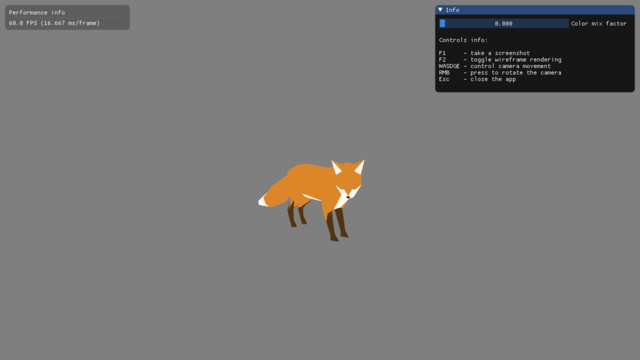
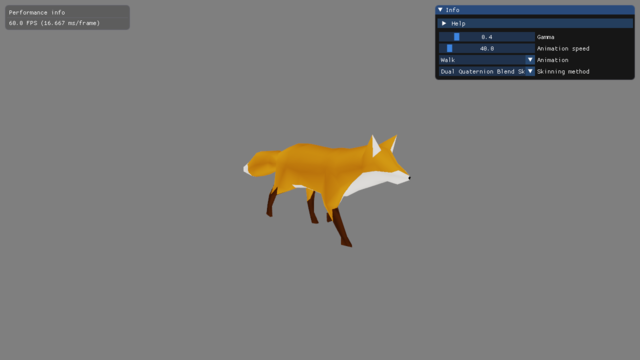
Finished Mesh Skinning Demo

Changed region(s): [[0.375, 0.3667, 0.6562, 0.7028], [0.6562, 0.0611, 1.0, 0.275], [0.875, 0.0306, 1.0, 0.0917]]

diff --git a/src/demos/20_mesh_skinning/mesh_skinning.cpp b/src/demos/20_mesh_skinning/mesh_skinning.cpp
@@ -7,7 +7,8 @@
 #include <timer.h>
 
 MeshSkinning::MeshSkinning()
-    : m_current_animation_index(0),
+    : m_skinning_method        (SkinningMethod::LBS),
+      m_current_animation_index(0),
       m_animation_speed        (40.0f),
       m_gamma                  (0.4f)
 {
@@ -28,7 +29,7 @@ void MeshSkinning::init_app()
 
     /* Create virtual camera. */
     m_camera = std::make_shared<RGL::Camera>(60.0, RGL::Window::getAspectRatio(), 0.01, 100.0);
-    m_camera->setPosition(-2.0, 1.0, 2.0);
+    m_camera->setPosition(-1.0, 0.5, 1.0);
     m_camera->setOrientation(10.0, 45.0, 0.0);
 
     /* Create models. */
@@ -38,12 +39,18 @@ void MeshSkinning::init_app()
 
     /* Set model matrices for each model. */
     auto scale_factor = m_animated_model.GetUnitScaleFactor();
-    m_object_model_matrix = glm::translate(glm::mat4(1.0), glm::vec3(0.0, 0.0, 0.0)) * glm::rotate(glm::mat4(1.0), glm::radians(0.0f), glm::vec3(1, 0, 0)) * glm::scale(glm::mat4(1.0f), glm::vec3(scale_factor));
+    m_object_model_matrix = glm::scale(glm::mat4(1.0f), glm::vec3(scale_factor));
 
     /* Create shader. */
     std::string dir = "../src/demos/20_mesh_skinning/";
-    m_simple_skinning_shader = std::make_shared<RGL::Shader>(dir + "skinning.vert", dir + "skinning.frag");
-    m_simple_skinning_shader->link();
+
+    /* Linear Blend Skinning shader. */
+    m_lbs_skinning_shader = std::make_shared<RGL::Shader>(dir + "skinning_lbs.vert", dir + "skinning.frag");
+    m_lbs_skinning_shader->link();
+
+    /* Dual Quaternion Blend Skinning shader. */
+    m_dqs_skinning_shader = std::make_shared<RGL::Shader>(dir + "skinning_dqs.vert", dir + "skinning.frag");
+    m_dqs_skinning_shader->link();
 }
 
 void MeshSkinning::input()
@@ -93,8 +100,17 @@ void MeshSkinning::update(double delta_time)
     /* Update variables here. */
     m_camera->update(delta_time);
 
-    m_bone_transforms.clear();
-    m_animated_model.BoneTransform(delta_time, m_bone_transforms);
+    switch(m_skinning_method)
+    {
+        case SkinningMethod::LBS:
+            m_bone_transforms.clear();
+            m_animated_model.BoneTransform(delta_time, m_bone_transforms);
+            break;
+        case SkinningMethod::DQS:
+            m_bone_transforms_dq.clear();
+            m_animated_model.BoneTransform(delta_time, m_bone_transforms_dq);
+            break;
+    }
 }
 
 void MeshSkinning::render()
@@ -102,14 +118,26 @@ void MeshSkinning::render()
     /* Put render specific code here. Don't update variables here! */
     glClear(GL_COLOR_BUFFER_BIT | GL_DEPTH_BUFFER_BIT);
 
-    m_simple_skinning_shader->bind();
-
     auto view_projection = m_camera->m_projection * m_camera->m_view;
-    
-    m_simple_skinning_shader->setUniform("mvp",   view_projection * m_object_model_matrix);
-    m_simple_skinning_shader->setUniform("model", m_object_model_matrix);
-    m_simple_skinning_shader->setUniform("bones", m_bone_transforms.data(), m_bone_transforms.size());
-    m_simple_skinning_shader->setUniform("gamma", m_gamma);
+
+    if (m_skinning_method == SkinningMethod::LBS)
+    {
+        m_lbs_skinning_shader->bind();
+        m_lbs_skinning_shader->setUniform("mvp",   view_projection * m_object_model_matrix);
+        m_lbs_skinning_shader->setUniform("model", m_object_model_matrix);
+        m_lbs_skinning_shader->setUniform("bones", m_bone_transforms.data(), m_bone_transforms.size());
+        m_lbs_skinning_shader->setUniform("gamma", m_gamma);
+    }
+
+    if (m_skinning_method == SkinningMethod::DQS)
+    {
+        m_dqs_skinning_shader->bind();
+        m_dqs_skinning_shader->setUniform("mvp",   view_projection * m_object_model_matrix);
+        m_dqs_skinning_shader->setUniform("model", m_object_model_matrix);
+        m_dqs_skinning_shader->setUniform("bones", m_bone_transforms_dq.data(), m_bone_transforms_dq.size());
+        m_dqs_skinning_shader->setUniform("gamma", m_gamma);
+    }
+
     m_animated_model.Render();
 }
 
@@ -160,6 +188,24 @@ void MeshSkinning::render_gui()
                 {
                     m_current_animation_index = i;
                     m_animated_model.SetAnimation(i);
+                }
+
+                if (is_selected)
+                {
+                    ImGui::SetItemDefaultFocus();
+                }
+            }
+            ImGui::EndCombo();
+        }
+
+        if (ImGui::BeginCombo("Skinning method", m_skinning_methods_names[int(m_skinning_method)].c_str()))
+        {
+            for (int i = 0; i < std::size(m_skinning_methods_names); ++i)
+            {
+                bool is_selected = (int(m_skinning_method) == i);
+                if (ImGui::Selectable(m_skinning_methods_names[i].c_str(), is_selected))
+                {
+                    m_skinning_method = SkinningMethod(i);
                 }
 
                 if (is_selected)

diff --git a/src/core/animated_model.cpp b/src/core/animated_model.cpp
@@ -3,6 +3,7 @@
 #include <glm/gtc/matrix_transform.hpp>
 #include <assimp/postprocess.h>
 #include <glm/gtx/quaternion.hpp>
+#include <glm/gtx/dual_quaternion.hpp>
 
 namespace RGL
 {
@@ -24,6 +25,34 @@ namespace RGL
             for (uint32_t i = 0; i < m_bones_count; ++i)
             {
                 transforms[i] = m_bone_infos[i].m_final_transform;
+            }
+        }
+    }
+
+    void AnimatedModel::BoneTransform(float dt, std::vector<glm::mat2x4>& transforms)
+    {
+        if (m_assimp_scene->mNumAnimations > 0)
+        {
+            /* Calc animation duration */
+            float ticks_per_second = (float)(m_assimp_scene->mAnimations[m_current_animation]->mTicksPerSecond != 0 ? m_assimp_scene->mAnimations[m_current_animation]->mTicksPerSecond : 25.0f);
+            float animation_duration = (float)m_assimp_scene->mAnimations[m_current_animation]->mDuration;
+
+            m_current_animation_time += ticks_per_second * dt * m_animation_speed;
+            m_current_animation_time = fmod(m_current_animation_time, animation_duration);
+
+            ReadNodeHierarchy(m_current_animation_time, m_assimp_scene->mRootNode, glm::mat4(1.0f));
+
+            transforms.resize(m_bones_count);
+
+            for (uint32_t i = 0; i < m_bones_count; ++i)
+            {
+                 glm::quat rotation(m_bone_infos[i].m_final_transform);
+                 glm::fdualquat dq (rotation, m_bone_infos[i].m_final_transform[3]);
+
+                 glm::mat2x4 dq_mat(glm::vec4(dq.real.w, dq.real.x, dq.real.y, dq.real.z), 
+                                    glm::vec4(dq.dual.w, dq.dual.x, dq.dual.y, dq.dual.z));
+
+                 transforms[i] = dq_mat;
             }
         }
     }

diff --git a/src/demos/20_mesh_skinning/mesh_skinning.h b/src/demos/20_mesh_skinning/mesh_skinning.h
@@ -18,17 +18,23 @@ public:
     void input()                   override;
     void update(double delta_time) override;
     void render()                  override;
-    void render_gui()               override;
+    void render_gui()              override;
 
 private:
+    enum class SkinningMethod { LBS, DQS };
+    const std::string m_skinning_methods_names[2] = { "Linear Blend Skinning", "Dual Quaternion Blend Skinning" };
+
     std::shared_ptr<RGL::Camera> m_camera;
-    std::shared_ptr<RGL::Shader> m_simple_skinning_shader;
+    std::shared_ptr<RGL::Shader> m_lbs_skinning_shader, m_dqs_skinning_shader;
 
     RGL::AnimatedModel m_animated_model;
     std::vector<std::string> m_animations_names;
-    std::vector<glm::mat4> m_bone_transforms;
     glm::mat4 m_object_model_matrix;;
 
+    std::vector<glm::mat4> m_bone_transforms;
+    std::vector<glm::mat2x4> m_bone_transforms_dq;
+
+    SkinningMethod m_skinning_method;
     uint32_t m_current_animation_index;
     float m_animation_speed;
     float m_gamma;

diff --git a/src/core/animated_model.h b/src/core/animated_model.h
@@ -2,6 +2,7 @@
 
 #include "static_model.h"
 
+#include <glm/mat2x4.hpp>
 #include <glm/mat4x4.hpp>
 #include <map>
 
@@ -20,8 +21,13 @@ namespace RGL
 
         virtual ~AnimatedModel() {}
 
-        void BoneTransform(float dt, std::vector<glm::mat4> & transforms);
-        bool Load         (const std::filesystem::path& filepath, bool srgb_textures = true) override;
+        /* Used for Linear Blend Skinning */
+        void BoneTransform(float dt, std::vector<glm::mat4>& transforms);
+
+        /* Used for Dual Quaternion Blend Skinning */
+        void BoneTransform(float dt, std::vector<glm::mat2x4>& transforms);
+
+        bool Load(const std::filesystem::path& filepath, bool srgb_textures = true) override;
 
         std::vector<std::string> GetAnimationsNames() const;
         uint32_t                 GetAnimationsCount() const { return m_animations_count; }

diff --git a/src/core/shader.cpp b/src/core/shader.cpp
@@ -375,6 +375,21 @@ namespace RGL
         }
     }
 
+    void Shader::setUniform(const std::string& uniformName, glm::mat2x4* matrices, unsigned count)
+    {
+        if (m_uniforms_locations.count(uniformName))
+        {
+            glProgramUniformMatrix2x4fv(m_program_id, m_uniforms_locations[uniformName], count, GL_FALSE, &matrices[0][0][0]);
+        }
+        else
+        {
+            if (getUniformLocation(uniformName))
+            {
+                glProgramUniformMatrix2x4fv(m_program_id, m_uniforms_locations[uniformName], count, GL_FALSE, &matrices[0][0][0]);
+            }
+        }
+    }
+
     void Shader::setSubroutine(ShaderType shader_type, const std::string & subroutine_name)
     {
         glUniformSubroutinesuiv(GLenum(shader_type), m_active_subroutine_uniform_locations[GLenum(shader_type)], &m_subroutine_indices[subroutine_name]);

diff --git a/src/core/shader.h b/src/core/shader.h
@@ -64,6 +64,7 @@ namespace RGL
         void setUniform(const std::string & uniformName, const glm::mat3 & matrix);
         void setUniform(const std::string & uniformName, const glm::mat4 & matrix);
         void setUniform(const std::string & uniformName, glm::mat4 * matrices, unsigned count);
+        void setUniform(const std::string & uniformName, glm::mat2x4 * matrices, unsigned count);
 
         void setSubroutine(ShaderType shader_type, const std::string& subroutine_name);
 

diff --git a/README.md b/README.md
@@ -137,7 +137,9 @@ Available presets: fountain, fire and smoke.
 <img src="screenshots/19_instanced_particles_compute_shader.png" width="50%" height="50%" alt="Particle system using instanced meshes with the Compute Shader" />
 
 ### Mesh skinning
-TODO: LBS, DQS.
+This demo presents simple model animation system using Assimp. There are two skinning methods available: Linear Blend Skinning and Dual Quaternion Blend Skinning.
+
+<img src="screenshots/20_mesh_skinning.png" width="50%" height="50%" alt="Mesh skinning" />
 
 ### OIT
 TODO
